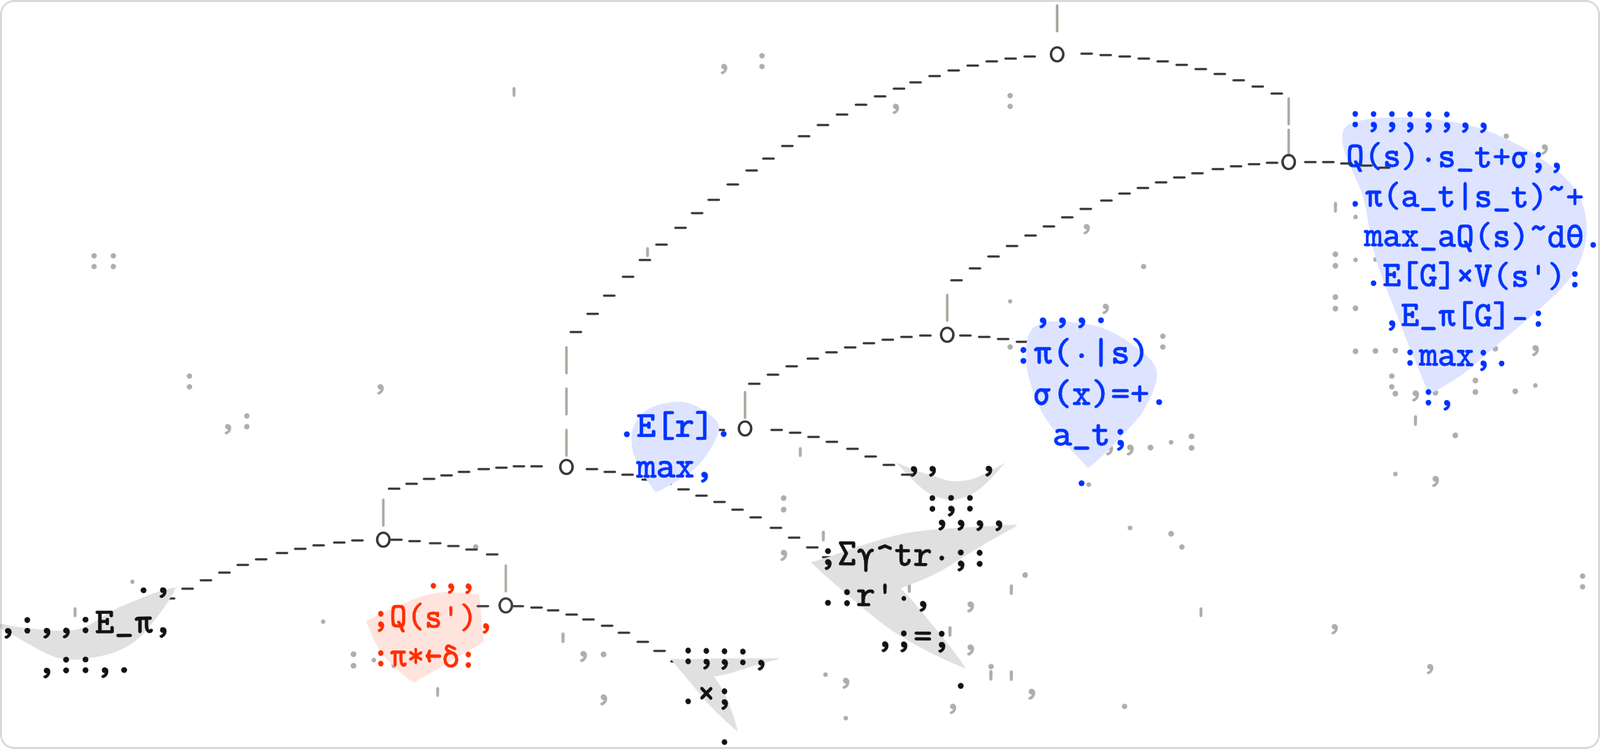
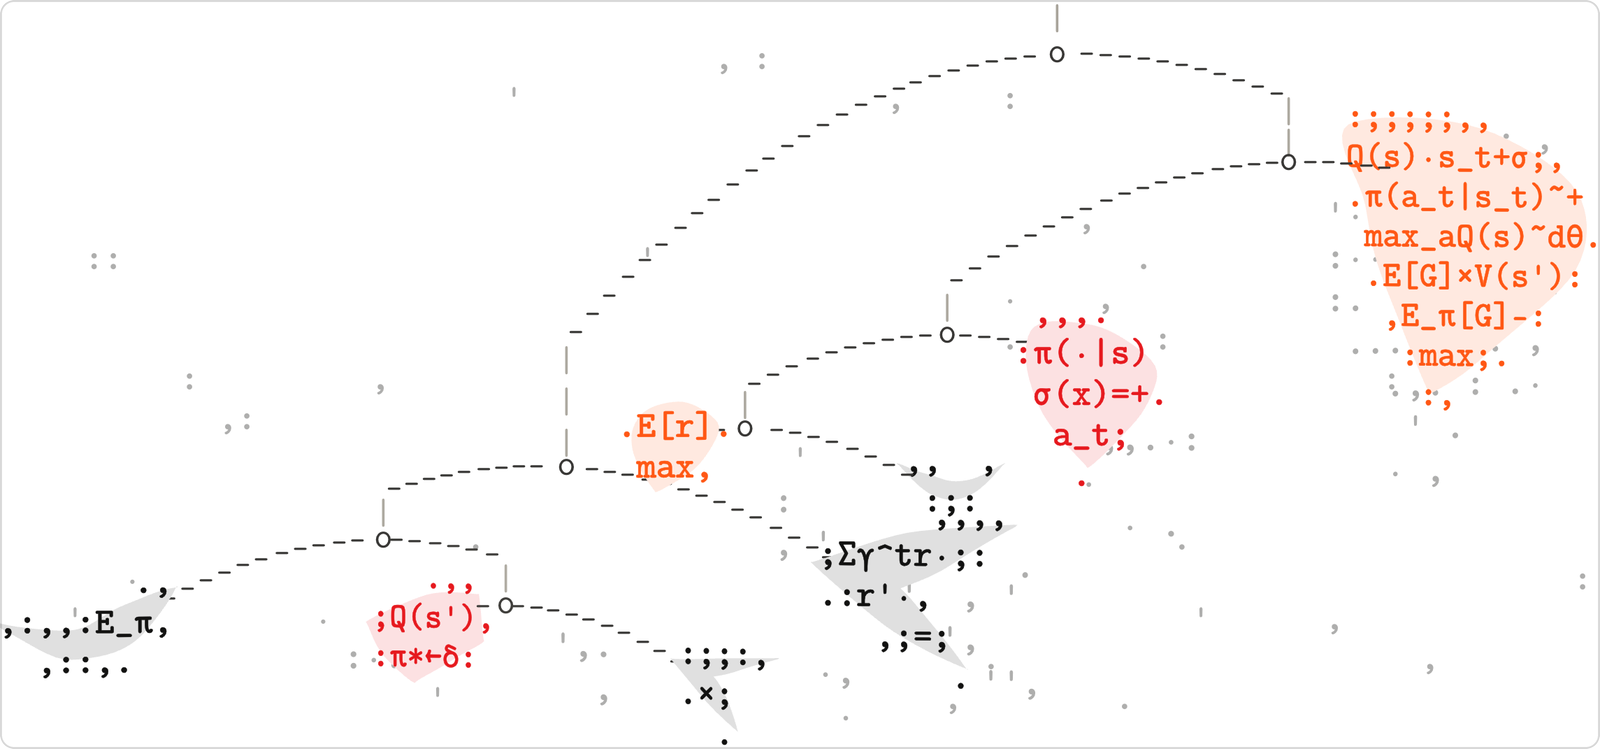
Orange palette with two red sheets, and refreshed thumbnails

diff --git a/components/mobile/config.ts b/components/mobile/config.ts
@@ -54,7 +54,7 @@ const sheet = (shape: ShapeKind, size: number, color: ColorKey, extra: Partial<S
 });
 
 /*
- * The arrangement. Mostly black and blue, with a single red.
+ * The arrangement. Mostly black and blue, with two red.
  * Add or remove arms freely: balance points, inertia and springs are all derived.
  */
 export const DESIGN: RodSpec = rod({
@@ -87,7 +87,7 @@ export const DESIGN: RodSpec = rod({
     }),
     right: sheet("boomerang", 0.32, "ink", { rot: 10 }),
   }),
-  // Right: blue petals growing toward the big leaf that counterweights everything.
+  // Right: petals (one red) growing toward the big leaf that counterweights everything.
   right: rod({
     len: 0.92,
     bend: 0.32,
@@ -107,7 +107,7 @@ export const DESIGN: RodSpec = rod({
         left: sheet("petal", 0.15, "blue", { rot: -10 }),
         right: sheet("blade", 0.18, "ink", { rot: 4 }),
       }),
-      right: sheet("petal", 0.24, "blue", { rot: 12 }),
+      right: sheet("petal", 0.24, "red", { rot: 12 }),
     }),
     right: sheet("leaf", 0.42, "blue", { rot: 8 }),
   }),

diff --git a/app/globals.css b/app/globals.css
@@ -107,8 +107,8 @@ html.fk body {
      dark mode). */
   --mobile-wire: #2b2a27;
   --mobile-ink: #121211;
-  --mobile-red: #ff2d00;
-  --mobile-blue: #0033ff;
+  --mobile-red: #e6191e;
+  --mobile-blue: #ff5714;
   /* The strings (the thread and the hooks), set apart from the arms by color. */
   --mobile-string: #a8a39a;
   /* The page background, for the canvas (follows --paper in dark mode too). */
@@ -129,8 +129,8 @@ html.fk body {
 
     --mobile-wire: #b5afa4;
     --mobile-ink: #ece6da;
-    --mobile-red: #ff5a2a;
-    --mobile-blue: #3d82ff;
+    --mobile-red: #ff4545;
+    --mobile-blue: #ff7a2e;
     --mobile-string: #45423e;
     --mobile-tint: 0.17;
     --mobile-depth-fade: 0.45;
